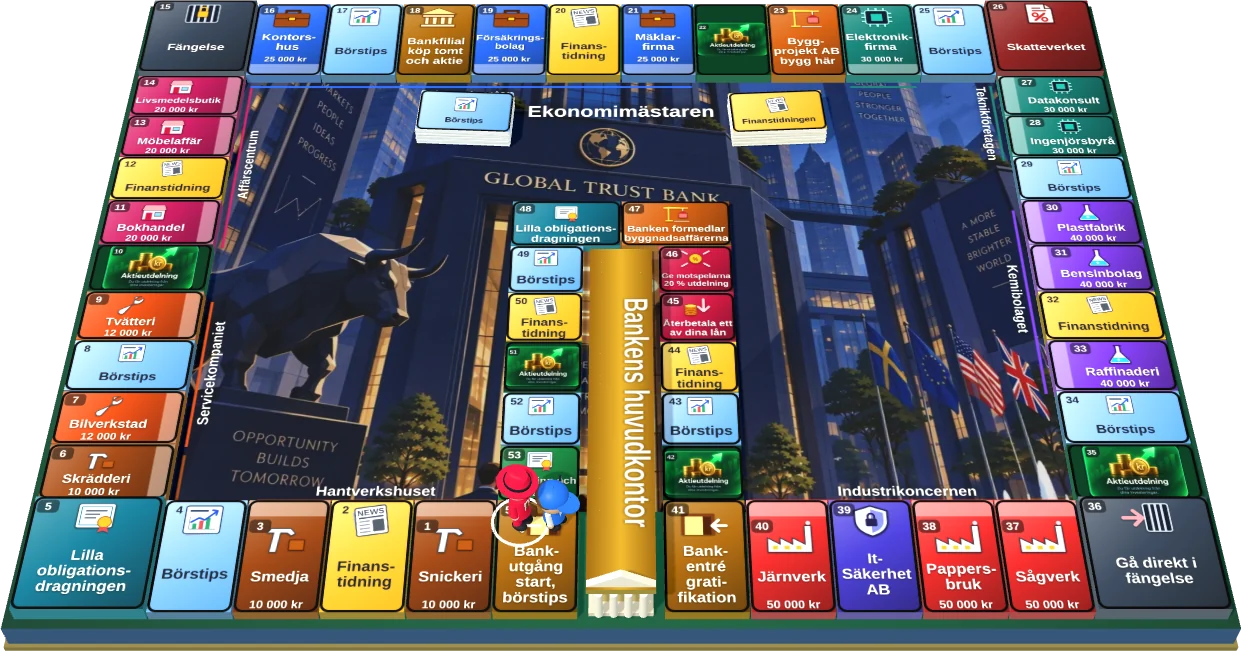
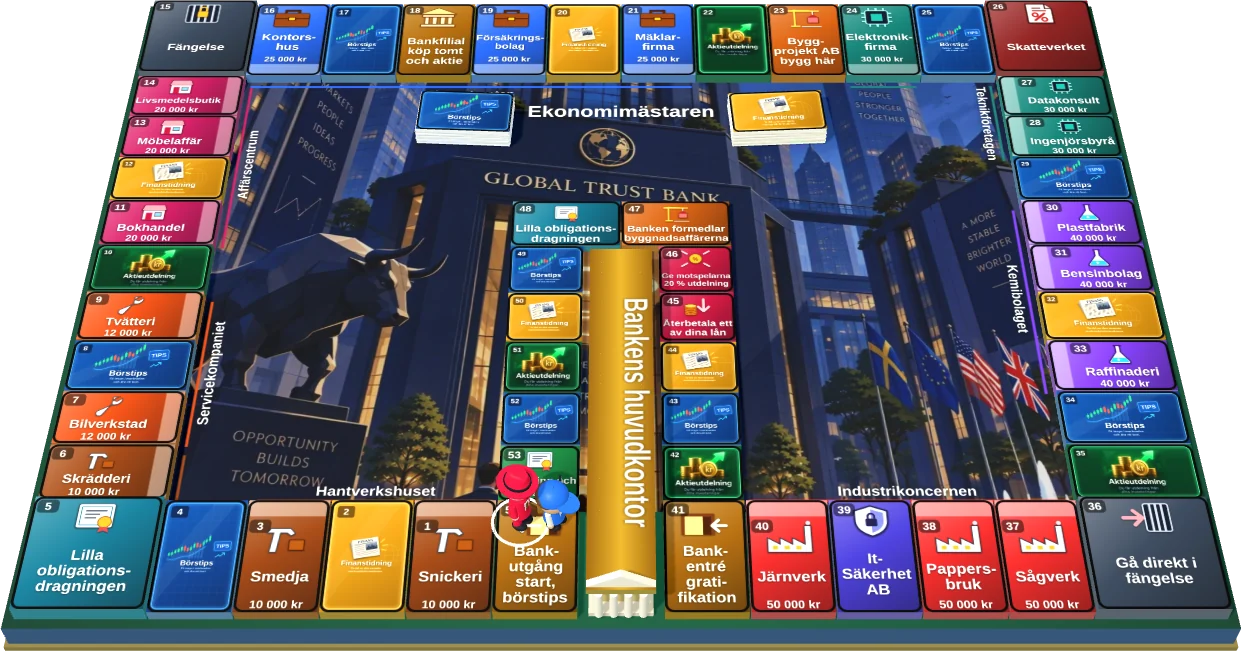
Nya bilder på Börstips, Finanstidning och korthögarna
Motiven ritas skarpt och täcker hela rutan, oavsett form.

Claude-Session: https://claude.ai/code/session_012UEboomqaECNEgSke9QzSg

diff --git a/public/rutbilder.js b/public/rutbilder.js
@@ -1,0 +1,52 @@
+// Rutorna Aktieutdelning, Börstips och Finanstidning, samt korthögarna i mitten.
+// Allt ritas så att det täcker hela ytan, oavsett form, och blir skarpt även när man zoomar in.
+(function () {
+  const FONT = '"Nunito","Trebuchet MS",Verdana,sans-serif';
+  const rounded = (c, x, y, w, h, r) => { c.beginPath(); c.moveTo(x + r, y); c.arcTo(x + w, y, x + w, y + h, r); c.arcTo(x + w, y + h, x, y + h, r); c.arcTo(x, y + h, x, y, r); c.arcTo(x, y, x + w, y, r); c.closePath(); };
+  // Ram ända ut mot kanten, med ett sken i samma färg.
+  function frame(c, cw, ch, band, glow, line) { const unit = Math.min(cw, ch), inset = unit * 0.045, rad = unit * 0.075; c.save(); c.strokeStyle = band; c.lineWidth = unit * 0.07; rounded(c, inset, inset, cw - 2 * inset, ch - 2 * inset, rad); c.stroke(); c.shadowColor = glow; c.shadowBlur = unit * 0.05; c.strokeStyle = line; c.lineWidth = Math.max(2, unit * 0.012); rounded(c, inset, inset, cw - 2 * inset, ch - 2 * inset, rad); c.stroke(); c.restore(); }
+  function badge(c, cw, ch, no, bg) { const unit = Math.min(cw, ch), bw = unit * 0.21, bh = unit * 0.17, bx = unit * 0.085, by = unit * 0.085; c.fillStyle = bg; rounded(c, bx, by, bw, bh, unit * 0.03); c.fill(); c.fillStyle = '#fff'; c.font = `800 ${Math.round(unit * 0.125)}px ${FONT}`; c.textAlign = 'center'; c.textBaseline = 'middle'; c.fillText(no, bx + bw / 2, by + bh / 2 + unit * 0.006); c.textBaseline = 'alphabetic'; }
+  // Aktieutdelning: bildens mynt, pil och text tonas in i en grön botten.
+  window.drawDivArt = function (c, cw, ch, img, no) {
+    const unit = Math.min(cw, ch), bg = c.createLinearGradient(0, 0, 0, ch); bg.addColorStop(0, '#04562c'); bg.addColorStop(0.3, '#023a1c'); bg.addColorStop(1, '#02301a'); c.fillStyle = bg; c.fillRect(0, 0, cw, ch);
+    const sx = 321 * 0.13, sy = 214 * 0.03, sw = 321 * 0.74, sh = 214 * 0.9, pad = unit * 0.085, k = Math.min((cw - 2 * pad) / sw, (ch - 2 * pad) / sh), dw = sw * k, dh = sh * k, part = document.createElement('canvas'); part.width = Math.ceil(dw); part.height = Math.ceil(dh); const o = part.getContext('2d'); o.drawImage(img, sx, sy, sw, sh, 0, 0, dw, dh); o.globalCompositeOperation = 'destination-in';
+    const fx = o.createLinearGradient(0, 0, dw, 0); fx.addColorStop(0, 'rgba(0,0,0,0)'); fx.addColorStop(0.12, '#000'); fx.addColorStop(0.88, '#000'); fx.addColorStop(1, 'rgba(0,0,0,0)'); o.fillStyle = fx; o.fillRect(0, 0, dw, dh);
+    const fy = o.createLinearGradient(0, 0, 0, dh); fy.addColorStop(0, 'rgba(0,0,0,0)'); fy.addColorStop(0.06, '#000'); fy.addColorStop(0.95, '#000'); fy.addColorStop(1, 'rgba(0,0,0,0)'); o.fillStyle = fy; o.fillRect(0, 0, dw, dh);
+    o.globalCompositeOperation = 'destination-out'; const bx0 = (321 * 0.1 - sx) * k, by0 = (214 * 0.13 - sy) * k, rb = 321 * 0.14 * k, cut = o.createRadialGradient(bx0, by0, rb * 0.55, bx0, by0, rb); cut.addColorStop(0, '#000'); cut.addColorStop(1, 'rgba(0,0,0,0)'); o.fillStyle = cut; o.fillRect(0, 0, dw, dh);
+    c.drawImage(part, (cw - dw) / 2, (ch - dh) / 2);
+    frame(c, cw, ch, 'rgba(38,226,120,.16)', '#3dff9a', '#49f59b'); badge(c, cw, ch, no, '#0a2a1b');
+  };
+  // Titel och två rader text längst ner i motivet.
+  function caption(c, title, l1, l2, sub, size) { c.textAlign = 'center'; c.save(); c.shadowColor = 'rgba(0,0,0,.55)'; c.shadowBlur = 6; c.shadowOffsetY = 2; c.fillStyle = '#fff'; c.font = `800 ${size}px ${FONT}`; c.fillText(title, 160, 160); c.restore(); c.fillStyle = sub; c.font = `700 13.5px ${FONT}`; c.fillText(l1, 160, 180); c.fillText(l2, 160, 196); }
+  function newsScene(c) {
+    c.strokeStyle = 'rgba(255,233,165,.26)'; c.lineWidth = 1.4; c.beginPath(); c.arc(262, 108, 58, 0, Math.PI * 2); c.stroke(); [0.35, 0.7].forEach((f) => { c.beginPath(); c.ellipse(262, 108, 58 * f, 58, 0, 0, Math.PI * 2); c.stroke(); }); [-28, 0, 28].forEach((d) => { const w = Math.sqrt(58 * 58 - d * d); c.beginPath(); c.moveTo(262 - w, 108 + d); c.lineTo(262 + w, 108 + d); c.stroke(); });
+    c.save(); c.translate(150, 66); c.rotate(-0.17);
+    c.save(); c.rotate(-0.13); c.shadowColor = 'rgba(70,40,0,.5)'; c.shadowBlur = 10; c.shadowOffsetY = 5; c.fillStyle = '#8f897c'; c.fillRect(-66, -46, 118, 92); c.restore(); c.save(); c.rotate(-0.06); c.fillStyle = '#c8c0ae'; c.fillRect(-64, -48, 120, 94); c.restore();
+    c.save(); c.shadowColor = 'rgba(60,35,0,.55)'; c.shadowBlur = 8; c.shadowOffsetX = 2; c.shadowOffsetY = 5; c.fillStyle = '#f5eedf'; c.fillRect(-60, -50, 122, 100); c.restore();
+    c.fillStyle = '#28385a'; c.font = 'bold 19px Georgia,"Times New Roman",serif'; c.textAlign = 'center'; c.fillText('FINANS', 1, -30); c.fillStyle = '#28385a'; c.fillRect(-52, -25, 106, 1.8);
+    c.strokeStyle = '#8c8678'; c.lineWidth = 1.7; for (let y = -18; y <= 12; y += 6) { c.beginPath(); c.moveTo(-52, y); c.lineTo(-7, y); c.stroke(); } for (let y = 19; y <= 42; y += 6) { c.beginPath(); c.moveTo(-52, y); c.lineTo(54, y); c.stroke(); }
+    const pic = c.createLinearGradient(0, -21, 0, 13); pic.addColorStop(0, '#8f9eb2'); pic.addColorStop(1, '#46546a'); c.fillStyle = pic; c.fillRect(0, -21, 54, 34); c.fillStyle = '#2b3648'; [[3, 7, 14], [11, 6, 22], [18, 8, 16], [27, 5, 25], [33, 8, 18], [42, 6, 12], [48, 5, 19]].forEach(([x, w, h]) => c.fillRect(x, 13 - h, w, h));
+    c.restore();
+    c.strokeStyle = '#ffd84d'; c.lineWidth = 5; c.lineCap = 'round'; [[218, 36, 234, 18], [228, 55, 250, 49], [224, 74, 245, 79]].forEach(([a, b, d, e]) => { c.beginPath(); c.moveTo(a, b); c.lineTo(d, e); c.stroke(); }); c.lineCap = 'butt';
+    caption(c, 'Finanstidning', 'Ta del av den senaste', 'marknadsinformationen.', '#fff1cc', 36);
+  }
+  function tipsScene(c) {
+    c.fillStyle = 'rgba(120,190,255,.2)'; [[116, 34], [130, 44], [144, 42], [158, 56], [172, 72]].forEach(([x, h]) => c.fillRect(x, 124 - h, 10, h));
+    c.save(); c.strokeStyle = '#2aa3ff'; c.lineWidth = 2.6; c.shadowColor = '#2aa3ff'; c.shadowBlur = 8; c.beginPath(); c.moveTo(18, 125); c.bezierCurveTo(52, 142, 72, 112, 102, 112); c.bezierCurveTo(134, 112, 158, 82, 188, 60); c.stroke(); c.restore();
+    [[24, 96, 12, 'u'], [38, 90, 14, 'u'], [52, 80, 13, 'u'], [66, 72, 17, 'u'], [80, 62, 20, 'u'], [94, 58, 24, 'd'], [108, 68, 17, 'd'], [122, 62, 17, 'u'], [136, 44, 21, 'u'], [150, 40, 24, 'd'], [164, 48, 14, 'd'], [178, 32, 18, 'u'], [190, 22, 14, 'u'], [204, 2, 25, 'u']].forEach(([x, y, h, d]) => { const col = d === 'u' ? '#2fe48d' : '#f0604b'; c.strokeStyle = col; c.lineWidth = 2; c.beginPath(); c.moveTo(x, y - 7); c.lineTo(x, y + h + 7); c.stroke(); c.fillStyle = col; c.fillRect(x - 4.5, y, 9, h); });
+    c.save(); c.translate(268, 56); c.rotate(-0.08); c.shadowColor = 'rgba(40,150,255,.8)'; c.shadowBlur = 9; c.fillStyle = '#0d56bd'; rounded(c, -39, -24, 78, 48, 6); c.fill(); c.shadowBlur = 0; c.strokeStyle = '#5ac0ff'; c.lineWidth = 2.2; rounded(c, -39, -24, 78, 48, 6); c.stroke(); c.fillStyle = '#e4f4ff'; c.font = `800 27px ${FONT}`; c.textAlign = 'center'; c.fillText('TIPS', 0, 10); c.restore();
+    c.strokeStyle = '#37d6ff'; c.lineWidth = 3.6; c.lineJoin = 'round'; c.beginPath(); c.moveTo(240, 118); c.lineTo(255, 104); c.lineTo(263, 111); c.lineTo(281, 94); c.stroke(); c.beginPath(); c.moveTo(269, 93); c.lineTo(282, 93); c.lineTo(282, 106); c.stroke(); c.lineJoin = 'miter';
+    caption(c, 'Börstips', 'Få insyn i marknaden', 'och dra ett kort.', '#bcd8f7', 38);
+  }
+  // kind är 'bor' eller 'news'. no är rutans nummer, eller null på korthögarna.
+  window.drawCardArt = function (c, cw, ch, kind, no) {
+    const news = kind === 'news', bg = c.createLinearGradient(0, 0, cw, ch), unit = Math.min(cw, ch);
+    if (news) { bg.addColorStop(0, '#efb22c'); bg.addColorStop(0.5, '#d4930f'); bg.addColorStop(1, '#a56c08'); } else { bg.addColorStop(0, '#0d57b3'); bg.addColorStop(0.55, '#083d8b'); bg.addColorStop(1, '#052a63'); }
+    c.fillStyle = bg; c.fillRect(0, 0, cw, ch);
+    c.save(); c.beginPath(); c.moveTo(0, ch * 0.72); c.lineTo(cw * 0.62, 0); c.lineTo(cw * 0.9, 0); c.lineTo(0, ch); c.closePath(); c.fillStyle = 'rgba(255,255,255,.055)'; c.fill(); c.restore();
+    if (!news) { c.strokeStyle = 'rgba(130,190,255,.1)'; c.lineWidth = Math.max(1, unit * 0.004); const step = unit * 0.1; for (let x = step; x < cw; x += step) { c.beginPath(); c.moveTo(x, 0); c.lineTo(x, ch); c.stroke(); } for (let y = step; y < ch; y += step) { c.beginPath(); c.moveTo(0, y); c.lineTo(cw, y); c.stroke(); } }
+    const pad = unit * 0.085, k = Math.min((cw - 2 * pad) / 320, (ch - 2 * pad) / 210); c.save(); c.translate((cw - 320 * k) / 2, (ch - 210 * k) / 2); c.scale(k, k); if (news) newsScene(c); else tipsScene(c); c.restore();
+    if (news) frame(c, cw, ch, 'rgba(255,214,90,.12)', '#ffd65a', '#ffe07a'); else frame(c, cw, ch, 'rgba(70,170,255,.12)', '#3aa8ff', '#57bbff');
+    if (no !== null && no !== undefined) badge(c, cw, ch, no, news ? 'rgba(92,58,6,.82)' : 'rgba(5,28,70,.86)');
+  };
+})();

diff --git a/public/index.html b/public/index.html
@@ -155,7 +155,7 @@ button.waiting::after{content:' (vänta)';font-weight:600}
 .l{display:flex;align-items:center;gap:9px;font:700 14px/1.2 Nunito,sans-serif}
 .s{width:22px;height:22px;flex:none;border-radius:50%}
 .deck{border:2px solid var(--g);text-shadow:0 2px 3px rgba(0,0,0,.6);position:absolute;width:170px;height:100px;border-radius:16px;display:flex;flex-direction:column;gap:6px;align-items:center;justify-content:center;font:600 19px/1 Fredoka,sans-serif;color:var(--dark);box-shadow:0 6px 16px rgba(0,0,0,.45)}
-.deck svg{width:66px;height:50px}
+.deck{overflow:hidden}.deck canvas{flex:none;width:100%;height:100%}
 .pl{display:flex;justify-content:space-between;align-items:center;gap:6px;padding:3px 8px;border-radius:10px;background:#10234c;margin-top:4px}
 .pl.on{outline:2px solid var(--gold)}.pl.out{opacity:.45;text-decoration:line-through}
 .pawnicon{display:block;width:28px;height:39px;margin:-5px 0;flex:none}
@@ -226,6 +226,7 @@ body.rolling .side{pointer-events:none}
 <div id="app"></div><div id="toast" role="alert"></div>
 <script src="data.js"></script>
 <script src="cards.js"></script>
+<script src="rutbilder.js"></script>
 <script src="gubbar.js"></script>
 <script src="board3d.js"></script>
 <script>
@@ -282,21 +283,8 @@ const ICON = {
   I: '<path d="M6 45V25l15 9v-9l15 9v-9l15 9V8h8v37z" fill="#e2e8f0" stroke="#1f2937"/><path d="M12 36h6v5h-6zM26 36h6v5h-6zM40 36h6v5h-6z" fill="#fbbf24"/><circle cx="56" cy="4" r="3" fill="#cbd5e1"/>',
 };
 // Egen bild för Aktieutdelning. Rutans nummer läggs ovanpå numret i bilden.
-// Aktieutdelningsrutan fyller hela rutan, oavsett form: grön botten till kanterna och bildens innehåll i mitten.
-function drawDivArt(c, cw, ch, img, n) {
-  const unit = Math.min(cw, ch), bg = c.createLinearGradient(0, 0, 0, ch); bg.addColorStop(0, '#04562c'); bg.addColorStop(.3, '#023a1c'); bg.addColorStop(1, '#02301a'); c.fillStyle = bg; c.fillRect(0, 0, cw, ch);
-  // Bilden utan sin egen ram och siffra: mynten, pilen och texten tonas in i bottnen.
-  const sx = 321 * .13, sy = 214 * .03, sw = 321 * .74, sh = 214 * .9, pad = unit * .085, k = Math.min((cw - 2 * pad) / sw, (ch - 2 * pad) / sh), dw = sw * k, dh = sh * k, part = document.createElement('canvas'); part.width = Math.ceil(dw); part.height = Math.ceil(dh); const o = part.getContext('2d'); o.drawImage(img, sx, sy, sw, sh, 0, 0, dw, dh); o.globalCompositeOperation = 'destination-in';
-  const fx = o.createLinearGradient(0, 0, dw, 0); fx.addColorStop(0, 'rgba(0,0,0,0)'); fx.addColorStop(.12, '#000'); fx.addColorStop(.88, '#000'); fx.addColorStop(1, 'rgba(0,0,0,0)'); o.fillStyle = fx; o.fillRect(0, 0, dw, dh);
-  const fy = o.createLinearGradient(0, 0, 0, dh); fy.addColorStop(0, 'rgba(0,0,0,0)'); fy.addColorStop(.06, '#000'); fy.addColorStop(.95, '#000'); fy.addColorStop(1, 'rgba(0,0,0,0)'); o.fillStyle = fy; o.fillRect(0, 0, dw, dh);
-  o.globalCompositeOperation = 'destination-out'; const bx0 = (321 * .1 - sx) * k, by0 = (214 * .13 - sy) * k, rb = 321 * .14 * k, cut = o.createRadialGradient(bx0, by0, rb * .55, bx0, by0, rb); cut.addColorStop(0, '#000'); cut.addColorStop(1, 'rgba(0,0,0,0)'); o.fillStyle = cut; o.fillRect(0, 0, dw, dh);
-  c.drawImage(part, (cw - dw) / 2, (ch - dh) / 2);
-  // Ram ända ut mot kanten, med samma gröna sken som i bilden.
-  const inset = unit * .045, rad = unit * .075; c.save(); c.strokeStyle = 'rgba(38,226,120,.16)'; c.lineWidth = unit * .07; c.beginPath(); c.roundRect(inset, inset, cw - 2 * inset, ch - 2 * inset, rad); c.stroke(); c.shadowColor = '#3dff9a'; c.shadowBlur = unit * .05; c.strokeStyle = '#49f59b'; c.lineWidth = Math.max(2, unit * .012); c.beginPath(); c.roundRect(inset, inset, cw - 2 * inset, ch - 2 * inset, rad); c.stroke(); c.restore();
-  const bw = unit * .21, bh = unit * .17, bx = unit * .085, by = unit * .085; c.fillStyle = '#0a2a1b'; c.beginPath(); c.roundRect(bx, by, bw, bh, unit * .03); c.fill(); c.fillStyle = '#fff'; c.font = `800 ${Math.round(unit * .125)}px Nunito, "Trebuchet MS", Verdana, sans-serif`; c.textAlign = 'center'; c.textBaseline = 'middle'; c.fillText(displayNo(n), bx + bw / 2, by + bh / 2 + unit * .006); c.textBaseline = 'alphabetic';
-}
-// Samma ruta på det enkla brädet. Den ritas när bilden har laddats.
-function divTile(n, w, h) { const S = 2, cv = el('canvas', { class: 'divfill', 'aria-label': 'Aktieutdelning' }); cv.width = Math.round(w * S); cv.height = Math.round(h * S); const img = new Image(); img.onload = () => drawDivArt(cv.getContext('2d'), cv.width, cv.height, img, n); img.src = 'aktieutdelning.webp'; return cv; }
+// Ruta på det enkla brädet. Aktieutdelning ritas när bilden har laddats, de andra direkt.
+function artTile(kind, no, w, h, label) { const S = 2, cv = el('canvas', { class: 'divfill', 'aria-label': label }); cv.width = Math.round(w * S); cv.height = Math.round(h * S); const c = cv.getContext('2d'); if (kind === 'div') { const img = new Image(); img.onload = () => drawDivArt(c, cv.width, cv.height, img, no); img.src = 'aktieutdelning.webp'; } else drawCardArt(c, cv.width, cv.height, kind, no); return cv; }
 const divArt = (n, width) => el('div', { class: 'divart', style: `width:${width}` }, el('img', { src: 'aktieutdelning.webp', alt: 'Aktieutdelning', draggable: 'false' }), el('span', {}, displayNo(n)));
 const iconFor = (s) => { const k = s.kind === 'plot' ? s.group : { bor: 'bor', news: 'news', div: 'div', lilla: 'bond', bonddiv: 'bond', branch: 'bank', entry: 'in', exit: 'out', buildsq: 'crane', itsec: 'shield', tax: 'tax', repay: 'repay', give: 'give', prison: 'bars', gotoprison: 'gojail' }[s.kind]; return svg(`<svg class="tic" viewBox="0 0 64 48" aria-hidden="true">${ICON[k] || ''}</svg>`); };
 const tileBg = (c) => `linear-gradient(145deg,color-mix(in srgb,${c} 78%,white) 0%,${c} 42%,color-mix(in srgb,${c} 52%,black) 100%)`;
@@ -337,8 +325,8 @@ function buildBoard() {
   b.append(el('div', { class: 'plinth', style: `left:${colX(6) + 2}px;top:${BOTTOM - 5 * ROW + 12}px;width:${TW - 4}px;height:${5 * ROW + D - 2}px;background:#5c3a06` }));
   b.append(el('div', { class: 'mid', style: `left:${colX(6)}px;width:${TW}px;top:${BOTTOM - 5 * ROW}px;height:${5 * ROW + D}px` }, 'Bankens huvudkontor'));
   const leftC = D + 2 * TW; const rightC = colX(8) + 2 * TW;
-  b.append(el('div', { class: 'deck ct-bor', style: `left:${leftC - 85}px;top:${BOTTOM - 705}px;transform:rotate(-4deg)` }, iconFor(SQUARES[2]), 'Börstips'));
-  b.append(el('div', { class: 'deck ct-news', style: `left:${rightC - 85}px;top:${BOTTOM - 705}px;transform:rotate(4deg)` }, iconFor(SQUARES[6]), 'Finanstidningen'));
+  b.append(el('div', { class: 'deck ct-bor', style: `left:${leftC - 85}px;top:${BOTTOM - 705}px;transform:rotate(-4deg)` }, artTile('bor', null, 170, 100, 'Börstips')));
+  b.append(el('div', { class: 'deck ct-news', style: `left:${rightC - 85}px;top:${BOTTOM - 705}px;transform:rotate(4deg)` }, artTile('news', null, 170, 100, 'Finanstidningen')));
   b.append(el('div', { class: 'activenews', id: 'activenews', style: `left:${colX(8) + 10}px;width:${4 * TW - 20}px;top:${BOTTOM - 585}px` }));
   for (let n = 1; n <= 54; n++) {
     const s = SQUARES[n]; const r = rect(n); const isPlot = s.kind === 'plot';
@@ -355,7 +343,7 @@ function buildBoard() {
     if (r.corner) e.append(el('div', { class: 'r' }, el('div', { class: 'n' }, displayNo(n)), icon, el('div', {}, ...name)));
     else {
       const rot = r.rot || 0; const sideways = Math.abs(rot) === 90;
-      if (s.kind === 'div') { const uw = sideways ? h : w, uh = sideways ? w : h; e.classList.add('hasart'); e.append(el('div', { class: 'artwrap', style: `left:${(w - uw) / 2}px;top:${(h - uh) / 2}px;width:${uw}px;height:${uh}px;transform:rotate(${-rot}deg)` }, divTile(n, uw, uh))); b.append(e); continue; }
+      if (s.kind === 'div' || s.kind === 'bor' || s.kind === 'news') { const uw = sideways ? h : w, uh = sideways ? w : h; e.classList.add('hasart'); e.append(el('div', { class: 'artwrap', style: `left:${(w - uw) / 2}px;top:${(h - uh) / 2}px;width:${uw}px;height:${uh}px;transform:rotate(${-rot}deg)` }, artTile(s.kind, displayNo(n), uw, uh, s.name))); b.append(e); continue; }
       if (isPlot) e.append(el('div', { class: 'head', id: 'h' + n, style: (sideways ? 'height:42px;' : '') + (rot === -90 ? 'justify-content:flex-end' : '') }));
       // Rutan är vriden så att huvudet pekar inåt, men texten står rak mot skärmen. Pjäsen får en egen del av rutan.
       let lx = 0, ly = 0, W = w, H = h, just = 'center';

diff --git a/public/board3d.js b/public/board3d.js
@@ -25,7 +25,8 @@ function tileCanvas(n, r, w, h) { const S = 3, cw = Math.round(w * S), ch = Math
   const grad = c.createLinearGradient(0, 0, cw, ch);
   if (s.kind === 'bor') { grad.addColorStop(0, '#c0e1ff'); grad.addColorStop(.6, '#7cbcf9'); grad.addColorStop(1, '#5aa4ee'); } else if (s.kind === 'news') { grad.addColorStop(0, '#ffe07a'); grad.addColorStop(.6, '#f7bf30'); grad.addColorStop(1, '#eeac1c'); } else { grad.addColorStop(0, shade(base, .28)); grad.addColorStop(.45, base); grad.addColorStop(1, shade(base, -.42)); }
   c.fillStyle = grad; c.fillRect(0, 0, cw, ch); const ink = light ? '#18202c' : '#ffffff';
-  if (s.kind === 'div' && divImg) drawDivArt(c, cw, ch, divImg, n);
+  if (s.kind === 'div' && divImg) drawDivArt(c, cw, ch, divImg, displayNo(n));
+  else if (light) drawCardArt(c, cw, ch, s.kind, displayNo(n));
   else {
     let bx = 0, by = 0, bw = cw, bh = ch; const band = 30 * S;
     if (isPlot) { c.fillStyle = 'rgba(255,255,255,.4)'; if (r.rot === 180) { c.fillRect(0, ch - band, cw, band); bh = ch - band; } else if (r.rot === 90) { c.fillRect(cw - band, 0, band, ch); bw = cw - band; } else if (r.rot === -90) { c.fillRect(0, 0, band, ch); bx = band; bw = cw - band; } else { c.fillRect(0, 0, cw, band); by = band; bh = ch - band; } }
@@ -74,7 +75,7 @@ function bankBuilding() { const cx = wx(colX(6) + TW / 2), z0 = wz(BOTTOM - 5 * 
   const roofTex = texOf(cv); const roof = add(g, box(w + .16, .12, len + .04), [gold, gold, new THREE.MeshStandardMaterial({ map: roofTex, roughness: .4, metalness: .25 }), gold, gold, gold], cx, hgt + .16, z0 + len / 2);
   const sh = new THREE.Shape(); sh.moveTo(-w / 2 - .08, 0); sh.lineTo(w / 2 + .08, 0); sh.lineTo(0, .3); sh.closePath(); const pedi = add(g, new THREE.ExtrudeGeometry(sh, { depth: .12, bevelEnabled: false }), cream, cx, hgt + .22, z1 - .14);
   [-1, -.33, .33, 1].forEach((s) => add(g, cyl(.06, .065, hgt, 16), cream, cx + s * w * .38, hgt / 2 + .1, z1 + .02)); scene.add(g); }
-function deck(x, z, rot, kind, label) { const g = new THREE.Group(); const cv = document.createElement('canvas'); cv.width = 510; cv.height = 300; const c = cv.getContext('2d'); const gr = c.createLinearGradient(0, 0, 510, 300); if (kind === 'bor') { gr.addColorStop(0, '#c0e1ff'); gr.addColorStop(1, '#5aa4ee'); } else { gr.addColorStop(0, '#ffe07a'); gr.addColorStop(1, '#eeac1c'); } c.fillStyle = gr; c.fillRect(0, 0, 510, 300); const ic = iconImg[kind]; if (ic) c.drawImage(ic, 170, 40, 170, 128); c.fillStyle = '#18202c'; c.textAlign = 'center'; c.font = fontOf(52); c.fillText(label, 255, 240); c.strokeStyle = '#000'; c.lineWidth = 10; rr(c, 5, 5, 500, 290, 28); c.stroke();
+function deck(x, z, rot, kind) { const g = new THREE.Group(); const cv = document.createElement('canvas'); cv.width = 1020; cv.height = 600; const c = cv.getContext('2d'); drawCardArt(c, 1020, 600, kind, null); c.strokeStyle = '#000'; c.lineWidth = 20; rr(c, 10, 10, 1000, 580, 56); c.stroke();
   const top = new THREE.MeshStandardMaterial({ map: texOf(cv), roughness: .45 }); const side = mat(kind === 'bor' ? '#e8f2fc' : '#fff4c9'); const dim = [1.7, .02, 1]; for (let i = 0; i < 16; i++) { const m = add(g, box(...dim), i === 15 ? [side, side, top, side, side, side] : side, Math.sin(i * 1.3) * .012, .02 + i * .022, Math.cos(i * 1.9) * .012); m.rotation.y = Math.sin(i * 2.7) * .012; } g.position.set(x, .04, z); g.rotation.y = rot; scene.add(g); }
 
   function animate(dur, fn, done) { if (still()) { fn(1); done && done(); return; } anims.push({ t: 0, dur, fn, done }); }
@@ -141,7 +142,7 @@ function deck(x, z, rot, kind, label) { const g = new THREE.Group(); const cv = 
     sirenLights = ['#ff1a1a', '#2158ff'].map((c) => { const l = new THREE.PointLight(c, 0, 7, 1.6); scene.add(l); return l; });
     const slabM = new THREE.MeshStandardMaterial({ map: slabTexture(), roughness: .8 }); const edge = mat('#0a1a3a', { roughness: .6 }); const trim = mat('#c79a2c', { metalness: .7, roughness: .35 }); add(scene, box(W * U + .3, .5, H * U + .3), [edge, edge, slabM, edge, edge, edge], 0, -.25, 0); add(scene, box(W * U + .42, .1, H * U + .42), trim, 0, -.5, 0);
     for (let n = 1; n <= 54; n++) { const r = rect(n), s = SQUARES[n]; const hgt = r.corner ? .3 : r.bank ? .16 : .2; const col = s.kind === 'plot' ? GROUPS[s.group].color : s.kind === 'bor' ? '#2f6fb8' : s.kind === 'news' ? '#b57e12' : s.kind === 'div' ? '#0b4f26' : KIND_BG[s.kind] || '#334155'; const side = mat(shade(col, -.45), { roughness: .55 }); const top = new THREE.MeshStandardMaterial({ map: texOf(tileCanvas(n, r, r.w, r.h)), roughness: .48, metalness: 0 }); const m = add(scene, box(r.w * U - .025, hgt, r.h * U - .025), [side, side, top, side, side, side], wx(r.x + r.w / 2), hgt / 2, wz(r.y + r.h / 2)); m.userData.n = n; tiles[n] = m; tileTop[n] = hgt; hit.push(m); }
-    bankBuilding(); deck(wx(W / 2 - 285), wz(D + 115), -.05, 'bor', 'Börstips'); deck(wx(W / 2 + 285), wz(D + 115), .05, 'news', 'Finanstidningen');
+    bankBuilding(); deck(wx(W / 2 - 285), wz(D + 115), -.05, 'bor'); deck(wx(W / 2 + 285), wz(D + 115), .05, 'news');
     const tg = new THREE.Vector3(0, 0, .25); fitPose(.86, .72, 0, tg); controls.target.copy(tg); controls.update(); }
   window.Board3D = {
     on: false,
